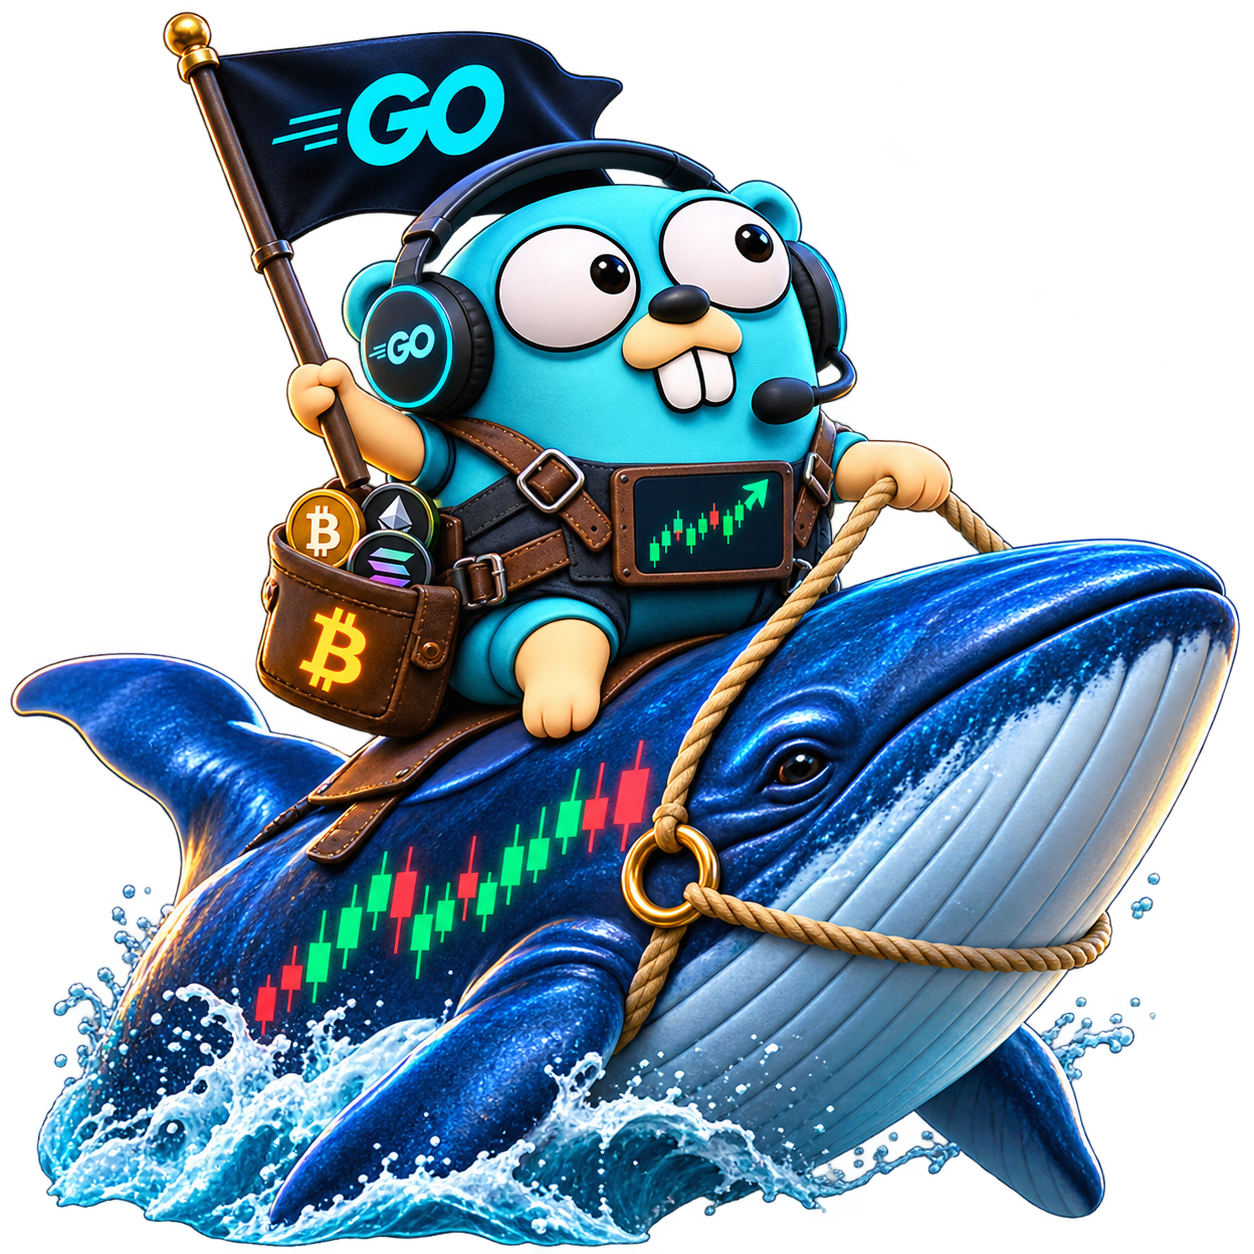
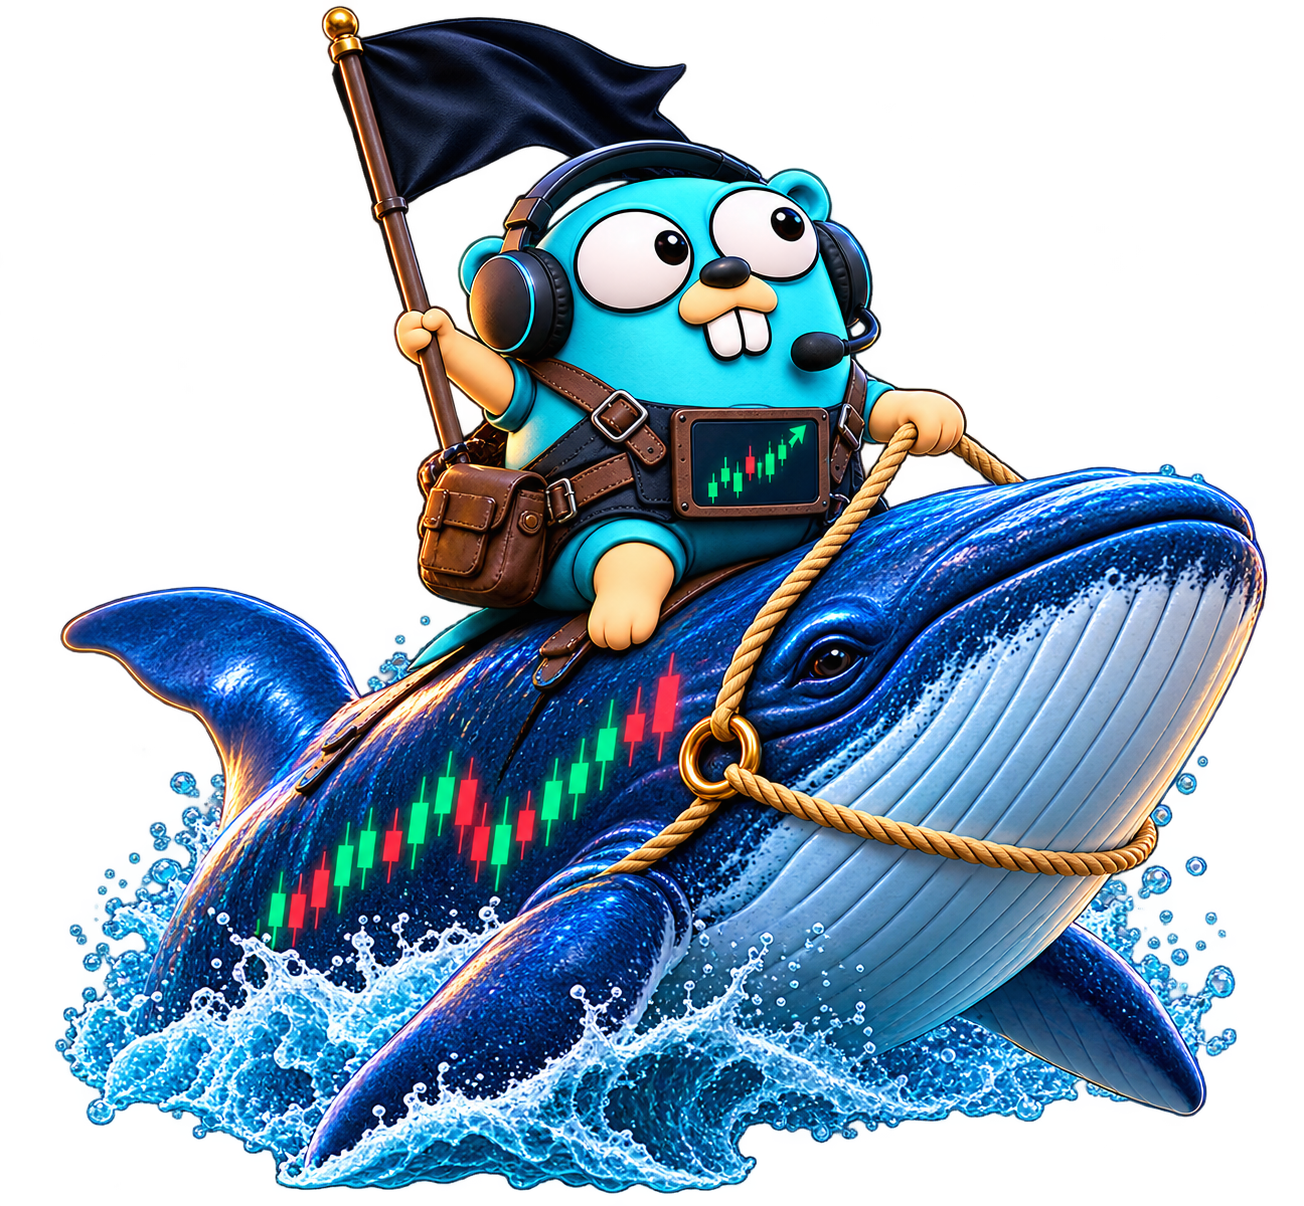
docs(brand): refresh the owner artwork and prune the roadmap
Replace the hero and mascot with the 2026-11-10 originals, rebuild the
WebP derivative, and publish the new checksums and dimensions. The recap
caption now names only Binance and BingX as supported and marks every
other venue in the artwork as planned or illustrative.

The roadmap keeps only open work: resolved extraction-debt items and the
duplicated data-plane/operations tables are removed, the OI-backfill item
is dropped because the bootstrap implements it, and the changelog now
marks 0.1.0 as unreleased.

diff --git a/ROADMAP.md b/ROADMAP.md
@@ -10,12 +10,15 @@ the contract harness certifies it.
 | Status | Meaning |
 | --- | --- |
 | **Shipped** | Present in the current tree and covered by the product gate |
-| **Resolved** | A known problem whose fix is present and covered by a regression test |
 | **Documented** | A known operator condition with a runbook, not a code fix |
 | **Next** | Agreed and unblocked; the next work to be scheduled |
 | **Later** | Agreed, but depends on a prerequisite or on demand |
 | **Blocked** | Needs an external proof, an owner decision or access we do not have |
 | **Not planned** | Explicitly out of scope, with the reason recorded |
+
+Work that is already fixed is not repeated here. The first public tree carries the
+fixes recorded in [`CHANGELOG.md`](CHANGELOG.md); this roadmap lists only what is
+still open, planned or blocked.
 
 Priority is about correctness and user impact, not about how easy the work is.
 
@@ -78,34 +81,23 @@ The capability matrix and the connection policy are in
 [`docs/adapters.md`](docs/adapters.md) and
 [`internal/market/capability.go`](internal/market/capability.go).
 
-## Known problems
+## Open work
 
-These are the items carried from the extraction debt register (2026-11-06), the
-LAN validation (2026-11-07) and the multi-exchange recovery session. The table is
-the public record; an item leaves it only when its exit criterion is met.
-
-| ID | Problem | Status | Why it matters | Exit criterion |
-| --- | --- | --- | --- | --- |
-| P1 | CCXT pulled `go-ethereum` (GPL-3.0) into an MIT binary | **Resolved** | The license inventory could not describe the binary as MIT-only | Removed; `go list -m all` contains no CCXT or `go-ethereum` (ADR 0006) |
-| P2 | Boot migration remains in the tree | **Blocked** | Removing it before proving `SoleCopyKeysAtRisk == 0` against production can destroy the only copy of a candle | A production measurement recorded with the `doctor` command, then an owner decision to remove the migration |
-| P3 | CI workflows have never executed on GitHub | **Next** | Local `actionlint` is not a substitute for a real runner | The first push runs `ci`, `integration`, `schema` and `security`; failures are fixed at the cause |
-| P4 | The public repository was never published | **Blocked** | The code existed only as an internal module | The launch commits exist in a local repository; publication requires an owner-authorized push |
-| P5 | LAN derivatives data was not audited at the destination | **Blocked** | Local proof does not prove the deployed data | A read-only audit of the destination, with freshness, parity and absence recorded |
-| P6 | Ten benchmarks are inconclusive (CV > 10%) | **Later** | A number outside the protocol cannot become a PASS by repetition | Re-run with the same protocol and publish PASS, inconclusive or accepted-with-ADR per case |
-| P7 | Comment debt outside the Go module | **Not planned here** | The TypeScript/React corpus is a separate codebase, not this repository | Out of scope; tracked by the owner outside this repository |
-| P8 | Stale CCXT references in docs | **Resolved** | Documentation that names a removed adapter sends contributors to a dead end | Zero current-support CCXT references; the historical ADR stays marked as history |
-| M1 | Recovery can no-op on an explicit window | **Resolved** | A backstop job with `window.start > 0` can refetch only the straddling bucket, so the series freezes behind a stale head while the process still reports healthy | Every missing bucket in `[window.start, now]` is written; the head advances; a no-progress breaker suspends and records the scope |
-| M2 | Seed writes do not normalize impossible OHLC | **Resolved** | A venue can publish a weekly candle with `high < open`; an impossible candle must not enter Redis or the engine | Every seeded candle passes the write gate; the real BCHUSDT 1w line from 2020-01-13 is a regression fixture |
-| M3 | The driver capability contract is not exercised for every scope | **Resolved** | A matrix row without a harness is a declaration, not a certification | The four scopes pass `TestVenueContractFourScopes` for every driver capability; every absent driver capability returns its typed error and records the metric |
-| M13 | Boot marking covers only the kline feed interval | **Resolved** | Coarser buckets stay unmarked and their repair is vetoed, so the series can freeze while the process is healthy | Every configured timeframe of the open bucket is marked; a coarser bucket's repair is proven not to be vetoed |
-| M4 | The testnet was reachable as a configuration default | **Resolved** | Testnet prices are production-like but not production data | Production hosts are the default; `.env.example` no longer advertises the testnet; a test asserts the policy |
-| M5 | Only `binance:future` has a transportable kline feed | **Later** | The other scopes need trade aggregation and REST candles; the matrix declares the absence | A venue publishes a kline stream this service can transport, or the scope stays declared absent |
-| M6 | Interior gaps behind the head are not located | **Later** | The recovery window derives from the head; a hole in the middle needs a coverage index | A coverage index answers "which buckets exist" without scanning the whole series |
-| M7 | Historical open-interest backfill is absent | **Later** | Current OI and OI history are not the same product | A per-venue historical source, its budget and its absence semantics are designed |
-| M8 | The REST budget and the pacer are split | **Later** | Two budget mechanisms are two ways to be wrong about the same limit | One process-wide budget owns every venue read, with the same classification |
-| M10 | A reused Redis volume can refuse boot under `noeviction` | **Documented** | Resident families without TTL can hit the ceiling after a restart | The operator runbook and the Compose warning; the startup gate stays fatal by design |
-| M11 | The binary had no public version surface | **Resolved** | A user could not identify the build in a report | `gowhale version` prints version, commit and build date; `go version -m` shows the module |
-| M12 | Dead code and task narrative remained | **Resolved** | A public tree should not carry abandoned paths or phase labels | `go tool deadcode ./cmd/...` is clean or every survivor is justified; no `TASK`/`Fase`/`Trilha` narrative |
+| Area | Item | Status | Exit criterion |
+| --- | --- | --- | --- |
+| CI | The workflows have not executed on GitHub | **Next** | The first push runs `ci`, `integration`, `schema` and `security`; a red job is fixed at the cause |
+| Storage | The boot migration remains in the tree | **Blocked** | A production measurement of `SoleCopyKeysAtRisk == 0` recorded with `doctor`, then an owner decision to remove the migration |
+| Operations | The LAN deployment has no read-only derivatives audit | **Blocked** | Freshness, parity and absence recorded from the destination |
+| Operations | A reused Redis volume can refuse boot under `noeviction` | **Documented** | The runbook in `docs/operations.md` and the Compose warning; the startup gate stays fatal by design |
+| Operations | No repeatable soak result | **Later** | Restarts, goroutines, GC headroom and endpoint latency recorded and published with the protocol |
+| Performance | Ten benchmarks are inconclusive under the protocol | **Later** | Every case published as PASS, inconclusive or accepted-with-ADR; no inconclusive case reported as PASS |
+| Data plane | No transportable kline feed outside `binance:future` | **Later** | A venue publishes a kline stream this service can transport, or the matrix keeps the absence |
+| Data plane | Interior gaps behind the head are not located | **Later** | A coverage index answers which buckets exist without scanning the whole series |
+| Data plane | The process-wide REST budget still lives in the composition root | **Later** | The same budget and classification move behind the driver without changing the cap |
+| Release | Release automation and a published container image | **Later** | The [release checklist](#release-checklist) produces a tag, notes and checksums; an image is built from the same Dockerfile and tagged with the commit |
+| Developer experience | `/openapi.json` has routes but no examples | **Later** | Examples can be added without changing the wire |
+| Developer experience | No client SDK | **Later** | Only after the v1 API is stable; the OpenAPI document remains the source |
+| Developer experience | No Grafana dashboard | **Later** | The dashboard JSON is published next to the metric names it queries |
 
 ## Venue expansion
 
@@ -177,41 +169,6 @@ the same for every venue; the reference implementation is `binance:future`.
 
 A scope that fails any item does not ship.
 
-## Data plane
-
-| Item | Status | Next step |
-| --- | --- | --- |
-| Generic recovery over explicit windows (M1) | **Resolved** | Make a job with `window.start > 0` fetch the whole `[start, now]`; keep the one-bucket shortcut only for a short reconnect without an explicit window. Add a no-progress breaker test. |
-| Seed normalization (M2) | **Resolved** | Normalize or reject every seeded candle at the write gate; keep the BCHUSDT 1w regression. |
-| Driver capability harness for every scope (M3) | **Resolved** | `TestVenueContractFourScopes` exercises the four scopes and every declared driver absence. |
-| In-flight timeframe marking at boot (M13) | **Resolved** | Mark every configured timeframe of the open bucket, not only the kline feed interval; prove that a coarser bucket's repair is not vetoed. |
-| Interior gap coverage (M6) | **Later** | Design a coverage index keyed by symbol and timeframe; do not scan the whole series per cycle. |
-| Historical OI backfill (M7) | **Later** | Pick the first venue with a documented historical endpoint; design its budget and absence semantics. |
-| Kline feeds beyond the reference scope (M5) | **Later** | Transport a venue kline stream only where it exists; otherwise keep the declared absence. |
-| REST budget consolidation (M8) | **Later** | Move the pacer behind the same process-wide budget, with one classification table. |
-
-## Reliability and operations
-
-| Item | Status | Exit criterion |
-| --- | --- | --- |
-| Boot migration removal (P2) | **Blocked** | Production proof of `SoleCopyKeysAtRisk == 0` and an owner decision |
-| CI on GitHub (P3) | **Next** | The four workflows run on the first push; a red job is fixed, not ignored |
-| Release automation | **Later** | A tag, changelog, checksums and a GitHub release produced by the [release checklist](#release-checklist); no prebuilt binary is claimed before it exists |
-| Container image | **Later** | A published image is built from the same Dockerfile and tagged with the commit; the README only claims it after publication |
-| Soak and load | **Later** | A repeatable soak records restarts, goroutines, GC headroom and endpoint latency; the result is published with its protocol |
-| Benchmarks (P6) | **Later** | Every case is PASS, inconclusive or accepted-with-ADR; no inconclusive case is reported as PASS |
-| LAN derivatives audit (P5) | **Blocked** | Read-only destination audit with freshness, parity and absence recorded |
-
-## Developer experience
-
-| Item | Status | Notes |
-| --- | --- | --- |
-| `gowhale version` (M11) | **Shipped** | Version, commit and build date; `go version -m` also identifies the module |
-| OpenAPI examples | **Later** | The route contract is served at `/openapi.json`; examples can follow without changing the wire |
-| Client SDK | **Later** | Only after the v1 API is stable; the OpenAPI document is the source |
-| Grafana dashboard | **Later** | Publish the dashboard JSON next to the metric names it queries |
-| Reproducible local stack | **Shipped** | `compose.example.yaml` for Redis + GoWhale; `compose.integration.yaml` for QuestDB checks |
-
 ## Milestones
 
 Milestones are exit criteria, not dates. A milestone can slip; a criterion cannot
@@ -227,7 +184,7 @@ be weakened to make it pass.
 - [x] `serve`, `doctor` and `version`.
 - [x] `make verify` green in the new repository.
 - [x] Brand assets, README, roadmap, community files and local CI validation.
-- [ ] Four independent reviews and an independent verifier.
+- [x] Four independent reviews and an independent verifier.
 - [ ] Publication, after the reviews and the owner's explicit authorization.
 
 ### v0.2.0 — the first new venue and the first public CI run
@@ -240,8 +197,8 @@ be weakened to make it pass.
 
 - [ ] Coinbase and Kraken certified for their declared scopes.
 - [ ] Release automation and a published container image.
-- [ ] P2 either closed with the production proof or explicitly carried with the
-      same blocker.
+- [ ] The boot-migration blocker either closed with the production proof or
+      explicitly carried with the same blocker.
 - [ ] A published benchmark report with PASS, inconclusive and accepted-with-ADR
       verdicts.
 - [ ] A repeatable soak report.
@@ -263,8 +220,8 @@ owner's explicit authorization and a green `make verify` on the tagged commit.
 1. **Version bump.** Set the semantic version in the linker flags
    (`-X .../internal/platform/version.Version=…`) and confirm `gowhale version`
    and `go version -m bin/gowhale` agree.
-2. **Changelog.** Move `Unreleased` entries under a dated heading in
-   `CHANGELOG.md`, keeping Keep a Changelog sections.
+2. **Changelog.** Date the `0.1.0` heading and move any remaining `Unreleased`
+   entries under it, keeping Keep a Changelog sections.
 3. **Gate.** Run `make verify` and the local workflow lint on the exact commit;
    record the log next to the tag.
 4. **Tag.** Create an annotated tag on that commit; never tag a dirty tree.

diff --git a/docs/branding.md b/docs/branding.md
@@ -7,21 +7,21 @@ binary is **gowhale**. Keep those three spellings distinct.
 
 | Asset | Path | Format | Dimensions | Size |
 | --- | --- | --- | --- | --- |
-| Hero | `docs/assets/brand/gowhale-hero.png` | PNG, opaque | 1254 × 1254 | 2.5 MB |
-| Hero derivative | `docs/assets/brand/gowhale-hero.webp` | WebP q90 | 1254 × 1254 | 372 KB |
-| Mascot | `docs/assets/brand/gowhale-mascot.png` | PNG, alpha | 1254 × 1254 | 2.2 MB |
+| Hero | `docs/assets/brand/gowhale-hero.png` | PNG, opaque | 1672 × 941 | 2.6 MB |
+| Hero derivative | `docs/assets/brand/gowhale-hero.webp` | WebP q82 | 1672 × 941 | 313 KB |
+| Mascot | `docs/assets/brand/gowhale-mascot.png` | PNG, alpha | 1304 × 1206 | 2.2 MB |
 
-The two PNG files are the owner-provided originals (2026-11-09). The hero WebP is a
-quality-90 derivative used by the README; it is the same mark, not a variant. The
-mascot PNG is the canonical source and is kept for future use; no unverified
-derivative is published.
+The two PNG files are the owner-provided originals, updated on 2026-11-10. The hero
+WebP is a quality-82 derivative used by the README; it is the same mark, not a
+variant. The mascot PNG is the canonical source and is kept for future use; no
+unverified derivative is published.
 
 ### SHA-256
 
 ```text
-4767676ecbc42f63d6be89df0d08f9905641c9653eb4e5c5bdb46ea1339ffce4  gowhale-hero.png
-20fab8ba8d13915f425c1459a1afcd01ad9bb9a1b232adba77abbf7bf4e2f453  gowhale-hero.webp
-6230d7fef694bf58b0223f7d1b4970d1fac95478087b9c79a28ced2340c04d77  gowhale-mascot.png
+39aed7e8ae07a556f933656ea5011940cc0bfd870013b1db026030581eb057d8  gowhale-hero.png
+6361c8779cc38e5d69018fb79641fa7d45e904a4dcf590d463e05747d2c6102b  gowhale-hero.webp
+34da1cd8e3db0544207f37caf2f5dfae8ff16845c2773d72ddf5d5cbf7f1ebe6  gowhale-mascot.png
 ```
 
 ## Third-party elements
@@ -36,7 +36,8 @@ derivative is published.
   for that element.
 - The exchange names and logos visible in the hero are illustrative. They belong
   to their owners. GoWhale is not affiliated with or endorsed by Binance, BingX,
-  Backpack, Hyperliquid or any other venue shown in the artwork.
+  Coinbase, Kraken, MEXC, Hyperliquid or any other venue shown in the artwork. Only
+  Binance and BingX are supported today; see the capability matrix.
 
 ## Use
 

diff --git a/CHANGELOG.md b/CHANGELOG.md
@@ -10,10 +10,12 @@ All notable changes to this project are documented here. The format follows
 
 - Certification of the first additional venue (Bybit first, then OKX).
 
-## [0.1.0] - 2026-11-09
+## [0.1.0] - unreleased
 
 The first public tree. The code was extracted from a private monorepo and is
 prepared for publication as the standalone module `github.com/marxms/go-whale`.
+The heading is dated when the release is published; until then, this section is
+the release candidate, not a published version.
 
 ### Added
 
@@ -68,6 +70,8 @@ prepared for publication as the standalone module `github.com/marxms/go-whale`.
 - The API and configuration are pre-1.0 and may change between minor versions.
 - Only `binance:future` has a transportable kline feed; the other scopes declare
   the absence and aggregate from trades.
+- Interior gaps behind the head are not located; recovery windows derive from the
+  head and need a coverage index for the middle of a series.
 - The boot migration remains until `SoleCopyKeysAtRisk == 0` is proven against
   production data.
 - The GitHub workflows have not yet executed on the public remote.

diff --git a/README.md b/README.md
@@ -1,7 +1,7 @@
 <p align="center">
   <img src="docs/assets/brand/gowhale-hero.webp" alt="GoWhale mascot riding a whale through market data" width="720">
 </p>
-<p align="center"><em>Illustrative artwork. Supported venues are listed below; Backpack and Hyperliquid are planned, not supported.</em></p>
+<p align="center"><em>Illustrative artwork. Only Binance and BingX are supported today; the other venues shown are planned or illustrative, not supported. The capability matrix below is the source of truth.</em></p>
 
 # GoWhale
 

diff --git a/docs/adapters.md b/docs/adapters.md
@@ -111,8 +111,6 @@ Zero means the venue does not document the value.
 - **Kline feed for other venues.** BingX publishes no candle stream this
   service can transport; the matrix declares the absence and the tape keeps
   writing.
-- **Historical open-interest backfill.** It needs a historical source per
-  venue, which is another budget and another design.
 - **Consolidating `exchange.RestBudget` and the pacer into the driver.** The
   refactor moves the request bodies; it does not redesign the budget.
 

diff --git a/docs/operations.md b/docs/operations.md
@@ -80,7 +80,7 @@ capability matrix. The WS feed itself is the in-process distribution hub; Redis
 Pub/Sub is a separate producer for external consumers. The example Compose does not
 set the secrets, so its WS routes are absent by design.
 
-## `noeviction` boot refusal (M10)
+## `noeviction` boot refusal
 
 The service has resident families without TTL (`candles`, `derivatives:series`).
 Under `noeviction`, Redis fails writes once memory is full instead of evicting a
